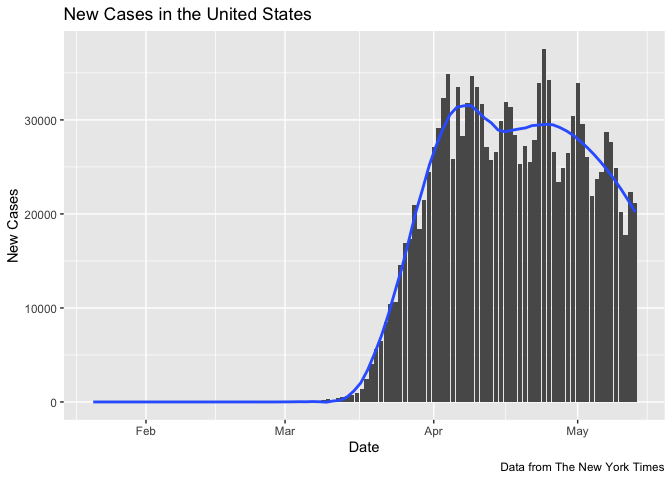
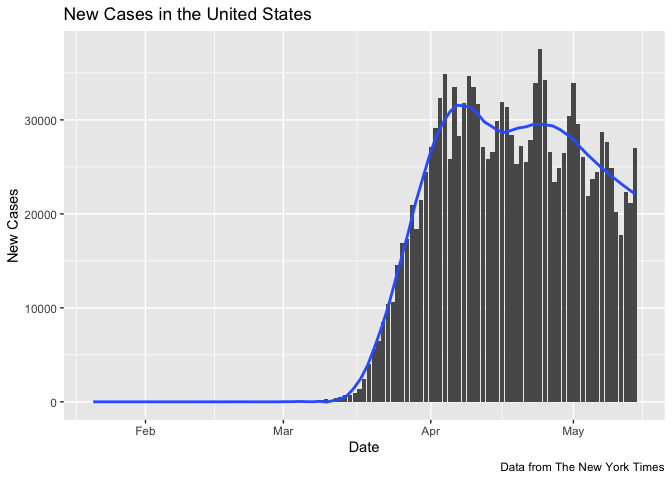
Updated data

diff --git a/Metro_Atlanta_COVID.md b/Metro_Atlanta_COVID.md
@@ -16,7 +16,7 @@ It’s hard to know how to interpret these numbers since there are major
 known unknowns. Neither confirmed cases nor deaths can be said to be
 reliable counts of the true numbers.
 
-Data current as of May 14,
+Data current as of May 15,
 2020.
 
 # Metro Atlanta
